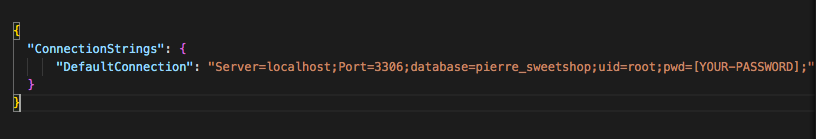
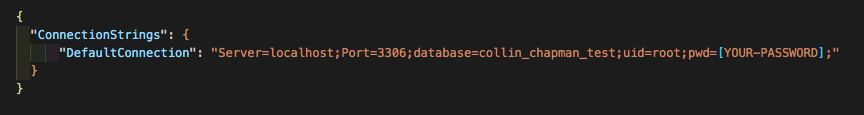
change database name to first_last for grading purposes

Changed region(s): [[0.0, 0.1304, 1.0, 0.5217], [0.0, 0.6522, 0.0306, 0.8087], [0.0306, 0.5739, 0.0613, 0.6522]]

diff --git a/README.md b/README.md
@@ -40,11 +40,11 @@ This is a C# MVC web application built with Identity to allow user authenticatio
 * _Still in the terminal, navigate to the desired subdirectory of the repository with the command `$ cd SweetAndSavory`_
 * _Retrieve and install packages listed in the .csproj files with the command `$ dotnet restore`_
 * _Create internal content for build with the command `$ dotnet build`_
-* _In Visual Studio Code, navigate to the `SweetAndSavory` directory and create an **appsettings.json** file and input the following script (**note the name of the database can be whatever you would like (e.g. pierre_sweetshop)**)_
+* _In Visual Studio Code, navigate to the `SweetAndSavory` directory and create an **appsettings.json** file and input the following script (**note the name of the database can be whatever you would like (e.g. collin_chapman_test)**)_
 ![Image of appsettings.json example](./SweetAndSavory/wwwroot/img/appsettings.json_test.png)
 * _If you do not have MySQL Workbench, it can be downloaded here: https://dev.mysql.com/downloads/file/?id=484391_
 * _Create Initial SQL migration with the following command `$ dotnet ef migrations add Initial`_
-* _Update the database in MySQL Workbench with the following command `$ dotnet ef database update` (**note this will title the database whatever you listed in your appsettings.json file (e.g. pierre_sweetshop_test)**) _
+* _Update the database in MySQL Workbench with the following command `$ dotnet ef database update` (**note this will title the database whatever you listed in your appsettings.json file (e.g. collin_chapman_test)**) _
 * _Back in the terminal, navigate to `$ cd SweetAndSavory` and run the application with the command `$ dotnet run`
 
 
